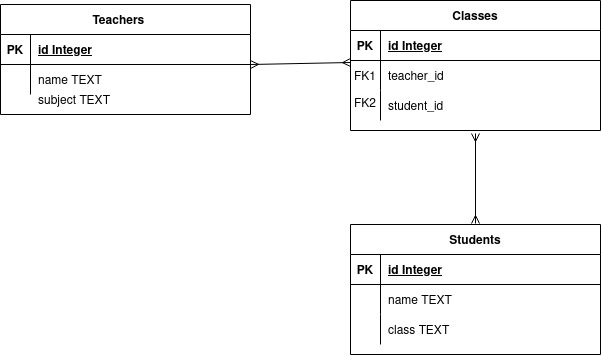
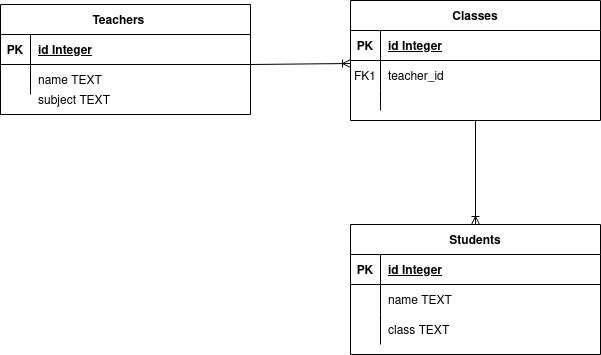
Worked on DatabaseConnectionPool and DatabaseConnection. Added To Do for first Class.

diff --git a/src/main/java/akad/multithreadeddbms/model/persistancelayer/DatabaseConnectionPool.java b/src/main/java/akad/multithreadeddbms/model/persistancelayer/DatabaseConnectionPool.java
@@ -1,0 +1,107 @@
+package akad.multithreadeddbms.model.persistancelayer;
+import java.sql.*;
+import java.util.*;
+import java.util.concurrent.Executors;
+import java.util.concurrent.ScheduledExecutorService;
+
+public class DatabaseConnectionPool {
+    private static final int MAX_POOL_SIZE = 10;
+    private static final long DELAY = 6000; // Zeitintervall für die Überprüfung von Verbindungen
+    private static final long TIMEOUT = 6000; // Zeitintervall, nachdem eine Verbindung als "abgelaufen" gilt
+    private List<Connection> connectionPool; // Liste der Verbindungen zur Datenbank
+    private ScheduledExecutorService executorService; // ScheduledExecutorService für die periodische Überprüfung von Verbindungen
+
+    public DatabaseConnectionPool() throws SQLException {
+        connectionPool = new ArrayList<>(MAX_POOL_SIZE);
+        // Hier werden die Verbindungen zur Datenbank erstellt und der Verbindungsliste hinzugefügt
+        populateConnectionPool(connectionPool);
+        executorService = Executors.newScheduledThreadPool(MAX_POOL_SIZE);
+        executorService.scheduleAtFixedRate(this::validateConnections , DELAY, TIMEOUT);
+        // Hier wird die periodische Überprüfung von Verbindungen gestartet
+    }
+
+    private void populateConnectionPool(List<Connection> connectionPool){
+        for (int i = 0; i < MAX_POOL_SIZE; i++) {
+            try {
+                // Hier wird eine neue Verbindung zur Datenbank erstellt und der Verbindungsliste hinzugefügt
+                this.connectionPool.add(DatabaseConnection.getDatabaseConnection());
+            } catch (SQLException e) {
+                e.printStackTrace();
+            }
+        }
+    }
+
+    private void validateConnections() {
+        List<Connection> expiredConnections = new ArrayList<>();
+        // Hier werden alle Verbindungen in der Verbindungsliste überprüft
+        for (Connection connection : connectionPool) {
+            try {
+                // Wenn die Verbindung geschlossen ist, wird sie der Liste abgelaufener Verbindungen hinzugefügt
+                if (connection.isClosed()) {
+                    expiredConnections.add(connection);
+                }
+            } catch (SQLException e) {
+                e.printStackTrace();
+            }
+        }
+        // Wenn es mehr abgelaufene Verbindungen als verfügbare Verbindungen gibt, wird der Verbindungspool zurückgesetzt
+        if (expiredConnections.size() >= MAX_POOL_SIZE) {
+            connectionPool.clear();
+            populateConnectionPool(connectionPool);
+            expiredConnections.clear();
+        } else {
+            // Andernfalls werden alle abgelaufenen Verbindungen aus der Verbindungsliste entfernt und geschlossen
+            for (Connection connection : expiredConnections) {
+                try {
+                    connection.close();
+                } catch (SQLException e) {
+                    e.printStackTrace();
+                }
+                connectionPool.remove(connection);
+            }
+        }
+    }
+
+    // Diese Methode gibt eine Verbindung zur Datenbank aus dem Pool zurück
+    public synchronized Connection getConnectionFromPool() throws SQLException {
+        while (connectionPool.isEmpty()) {
+            try {
+                // Hier wird gewartet, bis eine Verbindung verfügbar wird
+                wait();
+            } catch (InterruptedException e) {
+                // Hier wird die InterruptedException in eine SQLException umgewandelt
+                Thread.currentThread().interrupt();
+                throw new SQLException(e);
+            }
+        }
+        // Hier wird die letzte Verbindung aus der Verbindungsliste entfernt und zurückgegeben
+        return connectionPool.remove(connectionPool.size() - 1);
+    }
+
+
+    // Diese Methode gibt eine Verbindung zurück in den Pool
+    public synchronized void releaseConnection(Connection connection) {
+        // Hier wird die Verbindung in die Verbindungsliste zurückgegeben
+        connectionPool.add(connection);
+        // Hier werden alle Threads benachrichtigt, die auf eine Verbindung warten
+        notifyAll();
+    }
+}
+
+/*
+To Do:
+
+    Überprüfen, ob die Konstanten DELAY und TIMEOUT geeignete Werte haben. Die aktuellen Werte sind 6000 Millisekunden oder 6 Sekunden. Diese Werte könnten möglicherweise je nach Anwendung angepasst werden.
+
+    Überprüfen, ob die Konstante MAX_POOL_SIZE eine geeignete Größe für die Anzahl der Verbindungen zum Datenbankserver hat. Die aktuelle Größe beträgt 10. Möglicherweise müssen Sie diese Anzahl basierend auf der Anwendung und der Datenbankserver-Verfügbarkeit anpassen.
+
+    Überprüfen, ob der ScheduledExecutorService ordnungsgemäß verwendet wird und ob die Implementierung der validateConnections()-Methode korrekt ist. Die Methode scheint derzeit Verbindungen zu entfernen, die bereits geschlossen sind, anstatt Verbindungen zu schließen, die seit dem letzten Validierungszeitraum nicht verwendet wurden.
+
+    Überprüfen Sie, ob der populateConnectionPool()-Methode möglicherweise eine Ausnahme auslöst, die die Verbindungsliste nicht vollständig bevölkert. Sie sollten überlegen, wie Sie damit umgehen können, wenn nicht alle Verbindungen erfolgreich erstellt werden können.
+
+    Überprüfen Sie, ob die getConnectionFromPool()-Methode ordnungsgemäß blockiert, wenn keine Verbindungen verfügbar sind, und ob sie ordnungsgemäß eine Verbindung aus dem Pool zurückgibt. Sie sollten sicherstellen, dass alle Threads, die auf eine Verbindung warten, ordnungsgemäß benachrichtigt werden.
+
+    Überprüfen Sie, ob die releaseConnection()-Methode ordnungsgemäß funktioniert und ob sie alle Threads benachrichtigt, die auf eine Verbindung warten. Sie sollten auch sicherstellen, dass freigegebene Verbindungen ordnungsgemäß wieder in den Pool aufgenommen werden.
+
+    Überprüfen Sie, ob alle Ausnahmen in der Implementierung ordnungsgemäß abgefangen und behandelt werden.
+ */

diff --git a/src/main/java/akad/multithreadeddbms/model/persistancelayer/DatabaseConnection.java b/src/main/java/akad/multithreadeddbms/model/persistancelayer/DatabaseConnection.java
@@ -1,0 +1,48 @@
+// Import der notwendigen Java-SQL-Klassen
+package akad.multithreadeddbms.model.persistancelayer;
+import java.sql.*;
+
+public class DatabaseConnection {
+
+    // Hier wird die URL der Datenbank angegeben
+    String url = "jdbc:sqlite:src/main/resources/EduDB.db";
+
+    // Hier wird das Connection-Objekt definiert
+    Connection connection;
+
+    // Privater Konstruktor, um direkte Instanziierung zu verhindern
+    private DatabaseConnection() {
+        try {
+            // Hier wird der JDBC-Treiber registriert
+            Class.forName("org.sqlite.JDBC");
+            // Hier wird eine Verbindung zur Datenbank hergestellt
+            connection = DriverManager.getConnection(url);
+        } catch (SQLException | ClassNotFoundException ex) {
+            // Hier wird eine RuntimeException ausgelöst, wenn eine Verbindung nicht hergestellt werden kann
+            throw new RuntimeException(ex);
+        }
+    }
+
+    // Diese Methode gibt die Verbindung zur Datenbank zurück
+    public static Connection getDatabaseConnection() {
+        // Hier wird eine neue Instanz der DatabaseConnection-Klasse erstellt
+        DatabaseConnection dbConnection = new DatabaseConnection();
+        // Hier wird die Verbindung zur Datenbank abgerufen
+        Connection conn = dbConnection.connection;
+        // Hier wird die Verbindung auf null gesetzt, damit sie nicht versehentlich geschlossen wird
+        dbConnection.connection = null;
+        // Hier wird die Verbindung zur Datenbank zurückgegeben
+        return conn;
+    }
+
+    // Diese Methode schließt die Verbindung zur Datenbank
+    public void disconnectDatabaseConnection() {
+        try {
+            // Hier wird die Verbindung zur Datenbank geschlossen
+            connection.close();
+        } catch (SQLException ex) {
+            // Hier wird eine RuntimeException ausgelöst, wenn die Verbindung nicht geschlossen werden kann
+            throw new RuntimeException(ex);
+        }
+    }
+}

diff --git a/src/main/java/module-info.java b/src/main/java/module-info.java
@@ -4,7 +4,8 @@ module akad.multithreadeddbms {
             
         requires org.controlsfx.controls;
             requires com.dlsc.formsfx;
-                        
+    requires java.sql;
+
     opens akad.multithreadeddbms to javafx.fxml;
     exports akad.multithreadeddbms;
 }

diff --git a/Documentation/databaseschema.md b/Documentation/databaseschema.md
@@ -1,42 +1,38 @@
 ### Teacher
-- id INTEGER PRIMARY KEY
+- id INTEGER PRIMARY KEY AUTOINCREMENT
 - name TEXT
 - subject TEXT
 
 ### Student
-- id INTEGER PRIMARY KEY
+- id INTEGER PRIMARY KEY AUTOINCREMENT
 - name TEXT
-- class TEXT
+- class INTEGER
 
 ### Classes
-- id INTEGER PRIMARY KEY
+- id INTEGER PRIMARY KEY AUTOINCREMENT
 - teacher_id INTEGER
-- student_id INTEGER
 - FOREIGN KEY (teacher_id) REFERENCES Teacher(id)
-- FOREIGN KEY (student_id) REFERENCES Student(id)
 
 
 ![image](./edudb.jpg)
 
 ---
 ``` SQL
-CREATE TABLE Lehrer (
-  id INTEGER PRIMARY KEY,
+CREATE TABLE Teacher (
+  id INTEGER PRIMARY KEY AUTOINCREMENT,
   name TEXT,
-  fach TEXT
+  subject TEXT
 );
 
-CREATE TABLE Schueler (
-  id INTEGER PRIMARY KEY,
+CREATE TABLE Student (
+  id INTEGER PRIMARY KEY AUTOINCREMENT,
   name TEXT,
-  klasse TEXT
+  class INTEGER
 );
 
-CREATE TABLE Klassen (
-  id INTEGER PRIMARY KEY,
-  lehrer_id INTEGER,
-  schueler_id INTEGER,
-  FOREIGN KEY (lehrer_id) REFERENCES Lehrer(id),
-  FOREIGN KEY (schueler_id) REFERENCES Schueler(id)
+CREATE TABLE Classes (
+  id INTEGER PRIMARY KEY AUTOINCREMENT,
+  teacher_id INTEGER,
+  FOREIGN KEY (teacher_id) REFERENCES Teacher(id)
 );
 ```
